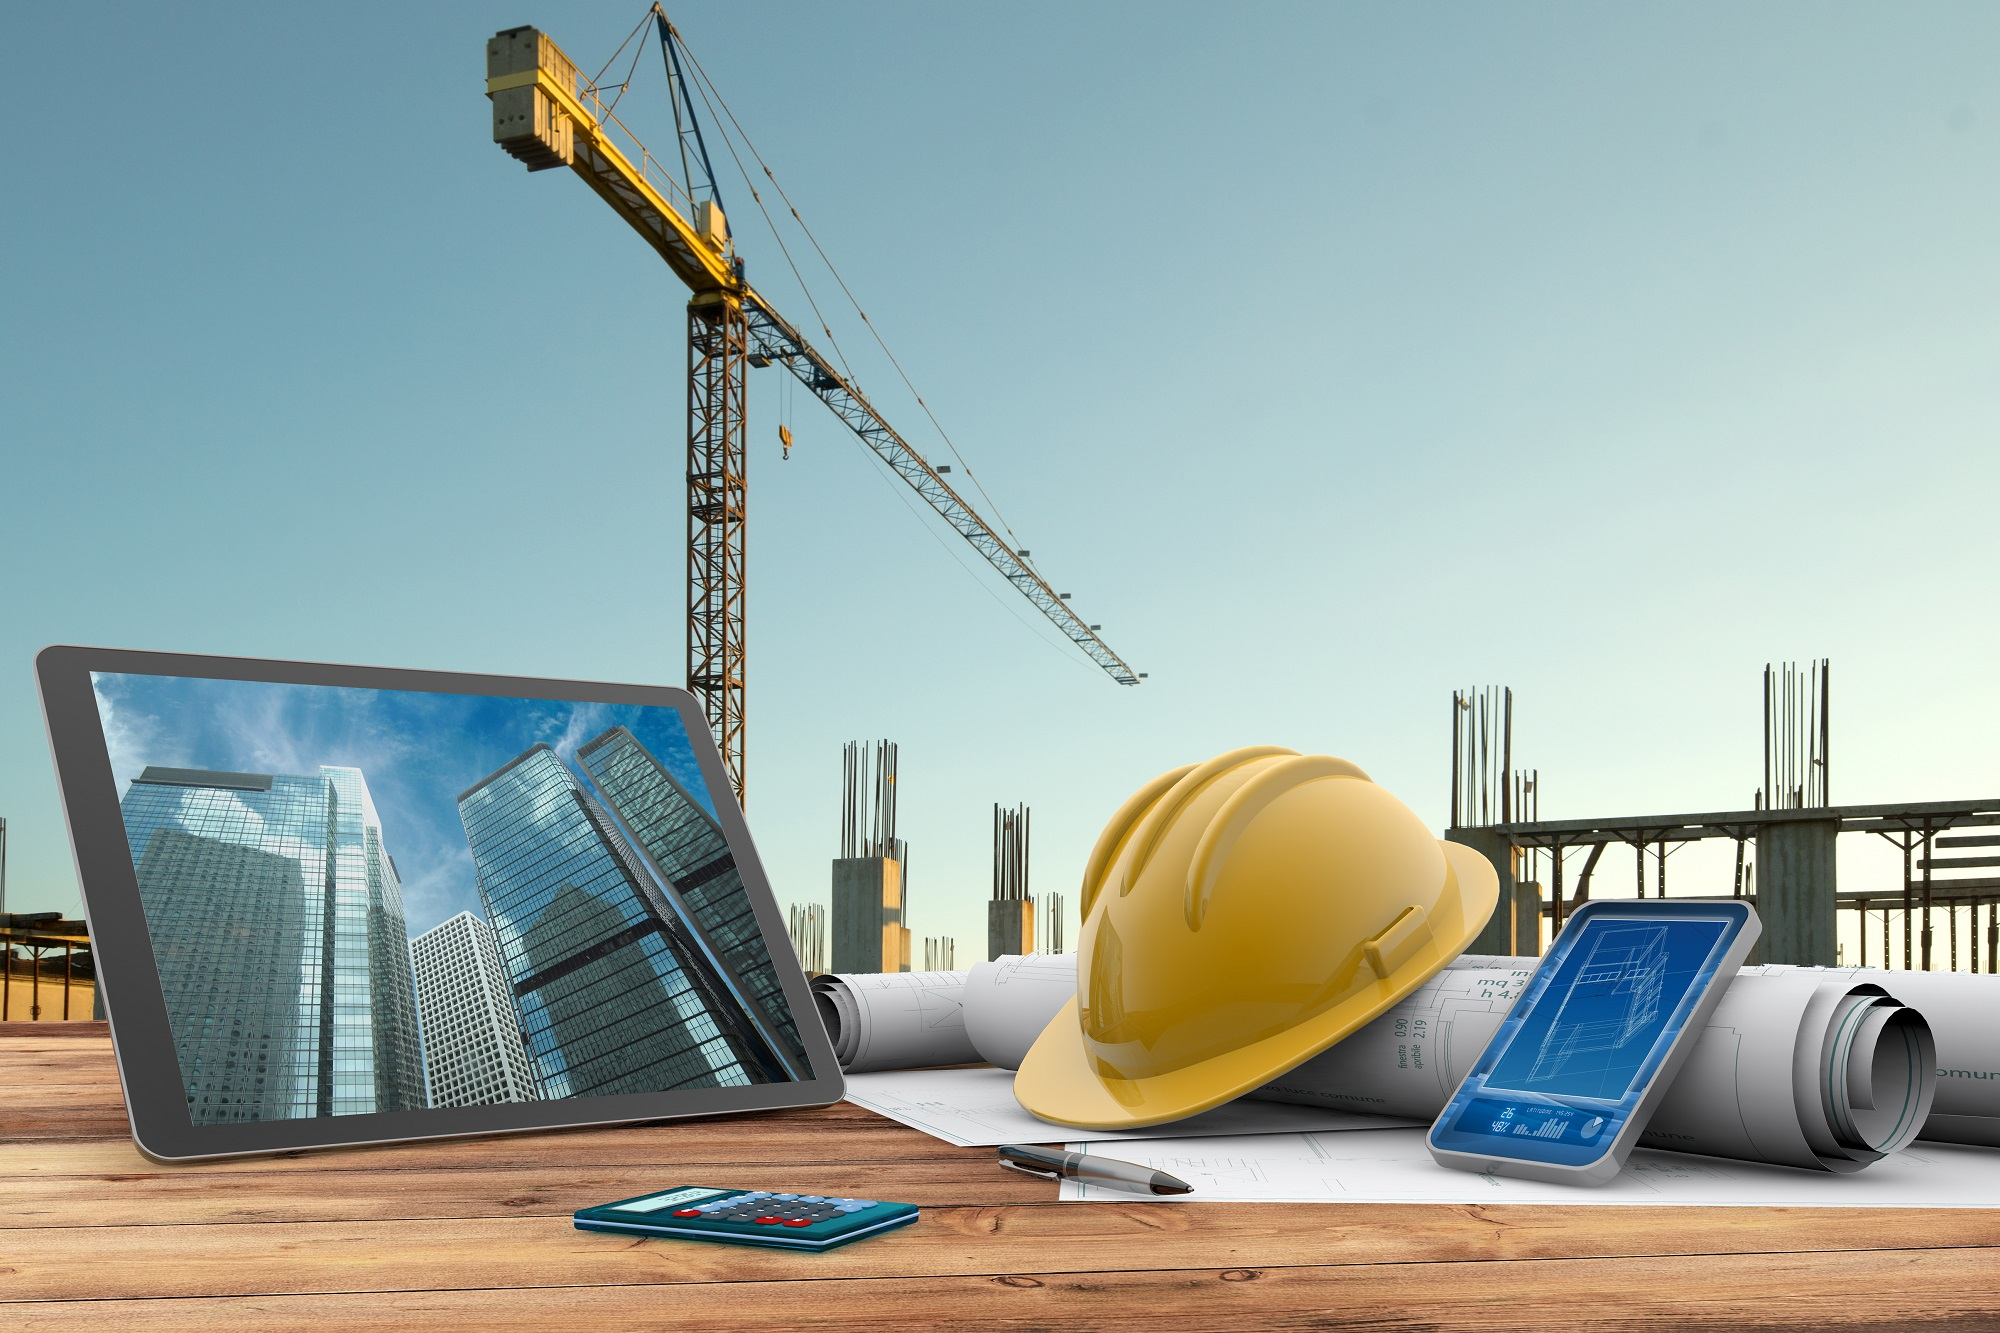
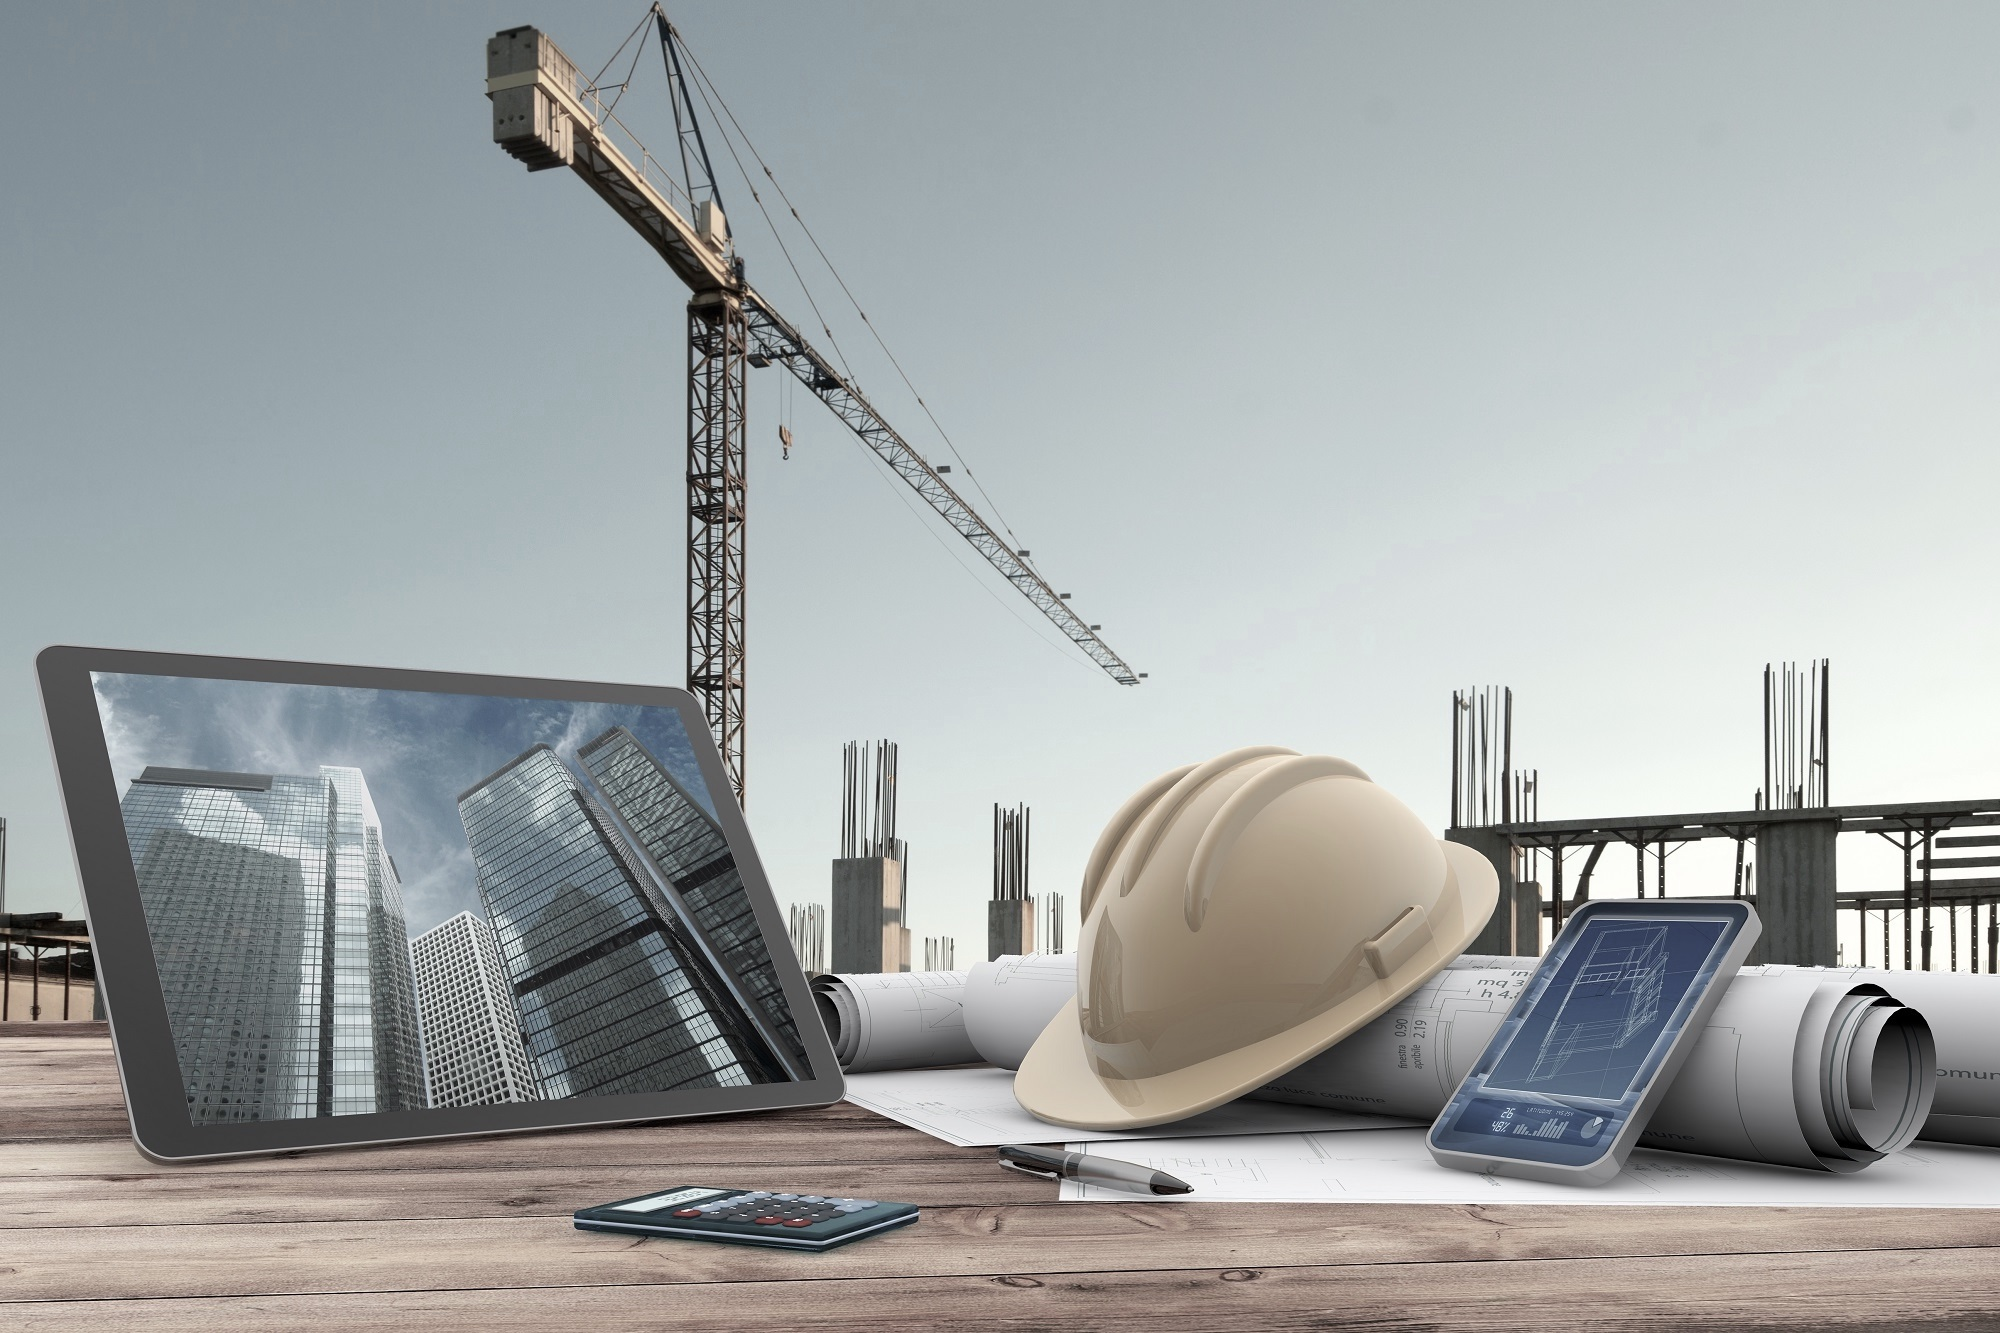
adjusting  greyscale on projectteam header.

diff --git a/frontend/src/pages/projecteam/ProjectteamHeader/projectteamHeader.css b/frontend/src/pages/projecteam/ProjectteamHeader/projectteamHeader.css
@@ -10,13 +10,9 @@
   box-sizing: border-box;
   padding-top: 4vw;
   padding-bottom: 4vw;
-  filter: grayscale(50%);
+filter: grayscale(50%);
 }
 
-
-/* .projectteam-Header-Page button {
-  filter: none; 
-} */
 
 .projectteamHeader { /* Updated class name */
   width: 50vw;
